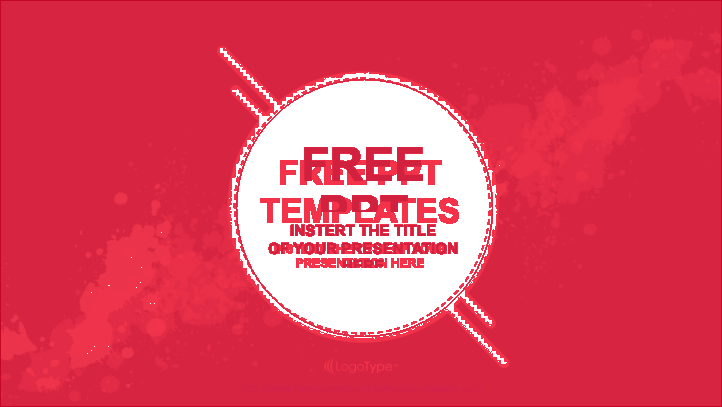
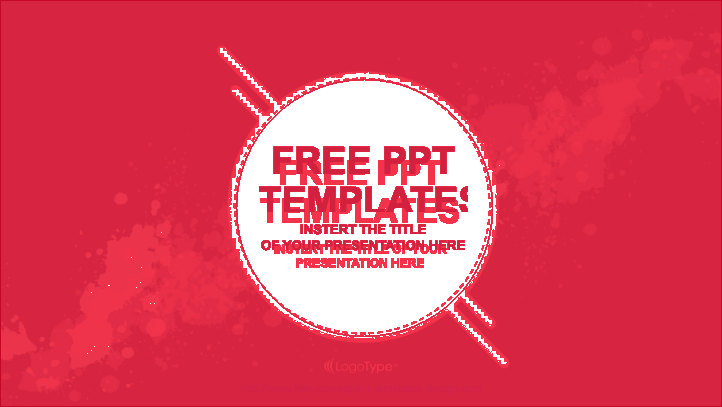
Reduce the sample6 badge text so the circle cover stops fighting itself
The blue badge cover kept failing because the title and subtitle were oversized for the inherited placeholder box, which made the circle composition look cramped. This stage narrows the badge typography just enough to preserve the existing layout while nudging the screenshot score upward without reopening the broader sample regressions.

Constraint: Must not disturb the current parser-grounded wins on the sample5 agenda lane
Constraint: Recent circle/badge experiments regressed easily, so the change had to stay small and directly measurable
Rejected: Placeholder-index-specific relayout guard | caused catastrophic overlap in the badge cover
Rejected: Larger title-box width/height rewrites | no lift or regressions in earlier loops
Confidence: medium
Scope-risk: narrow
Directive: Keep sample6 badge tweaks minimal and evidence-driven; avoid revisiting large relayout changes unless new parser evidence appears
Tested: npm run typecheck; npm run build --workspace @ooxml/example-basic; npm run quality:ppt-sample-screenshots
Not-tested: Full-repo lint/test/build/bench wave after this intermediate visual-fidelity checkpoint

Changed region(s): [[0.3352, 0.3538, 0.6704, 0.6781]]

diff --git a/examples/basic/src/main.ts b/examples/basic/src/main.ts
@@ -313,20 +313,20 @@ app.innerHTML = `
       }
 
       .preview-shell .ooxml-pptx-slide-canvas.is-title-slide-badge .ooxml-pptx-shape.kind-title .ooxml-pptx-shape-content {
-        font-size: 2.9rem;
+        font-size: 2.35rem;
         font-weight: 800;
         font-family: Arial, "Malgun Gothic", system-ui, sans-serif;
         color: #57A7BD;
-        line-height: 1.05;
+        line-height: 1.08;
         text-align: center;
       }
 
       .preview-shell .ooxml-pptx-slide-canvas.is-title-slide-badge .ooxml-pptx-shape.kind-subtitle .ooxml-pptx-shape-content {
-        font-size: 0.95rem;
-        font-weight: 700;
+        font-size: 0.82rem;
+        font-weight: 600;
         font-family: Arial, "Malgun Gothic", system-ui, sans-serif;
         color: #57A7BD;
-        line-height: 1.15;
+        line-height: 1.2;
         text-align: center;
       }
 
